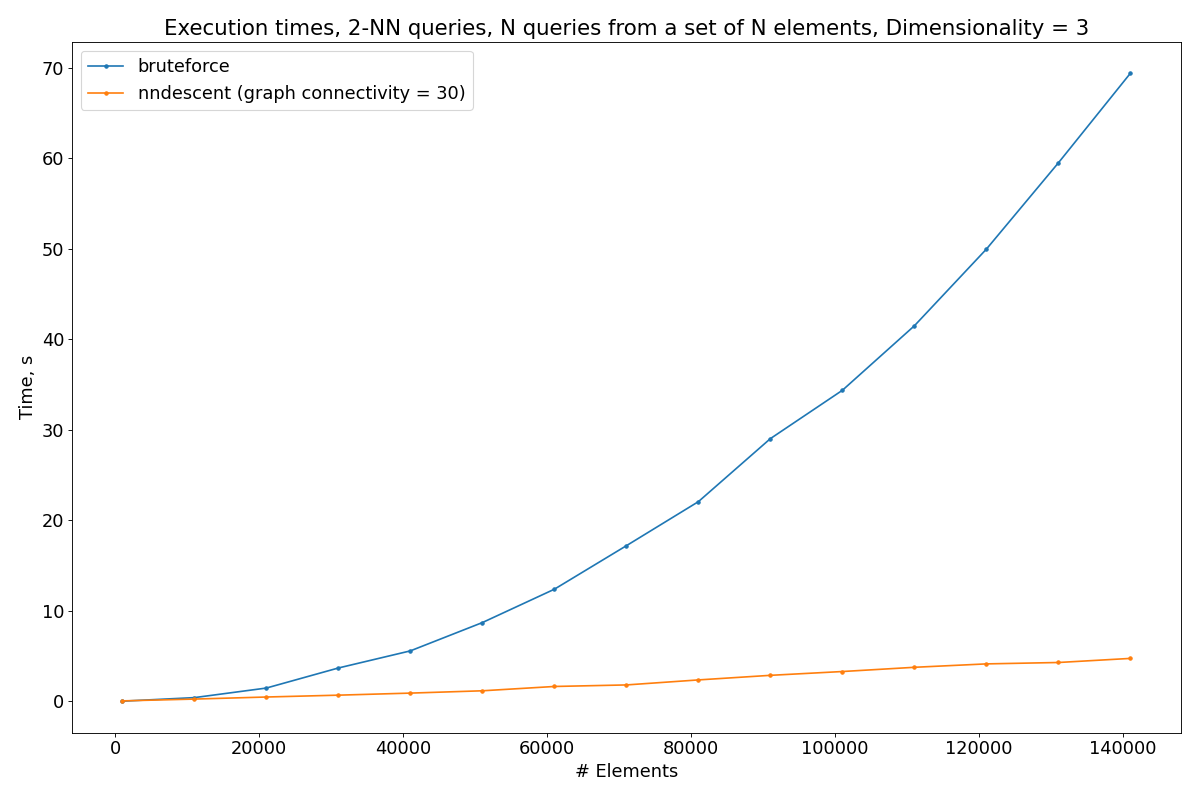
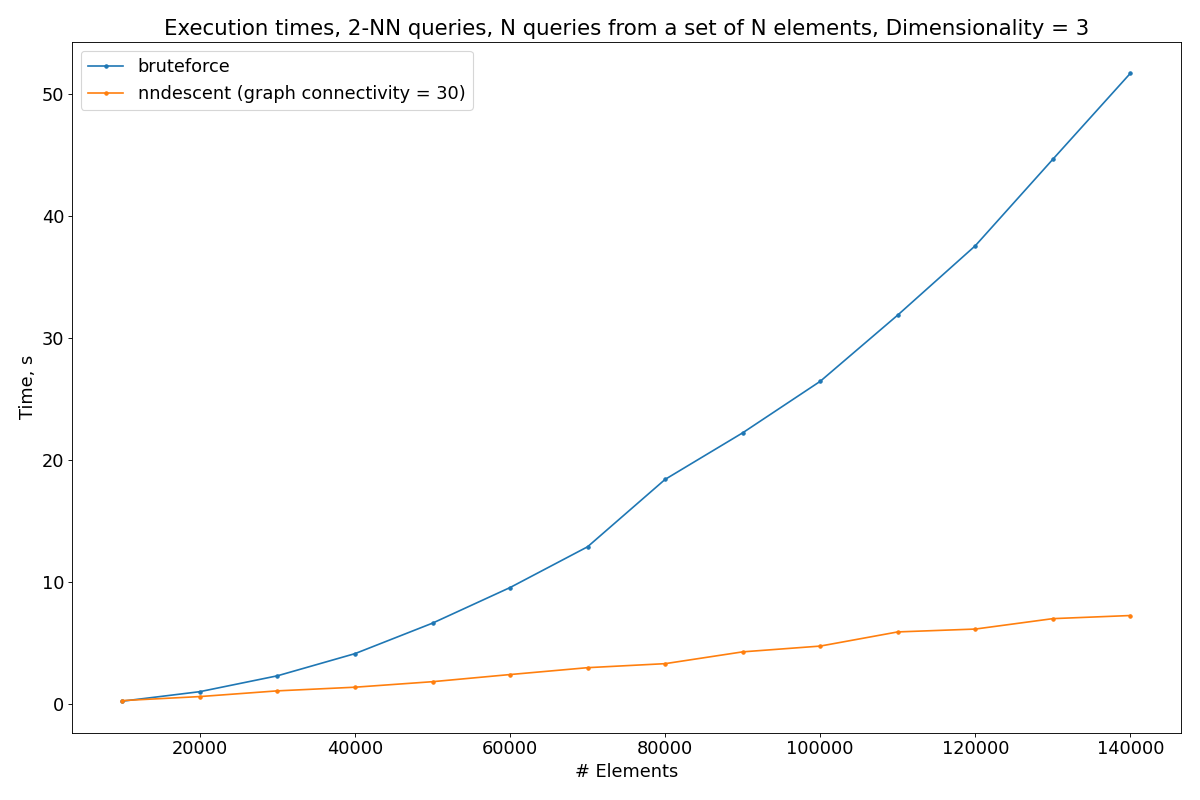
deploy: 7130a99ad22c4904c2712be1da9e372a1e9c1220

diff --git a/api.html b/api.html
@@ -42,7 +42,7 @@
   <h1 class="doc-title">nndescent approximate k-NN search algorithm</h1>
   <article id="article" data-section="api">
     <aside>
-      <ol class="toc"><li><a href="index.html" data-node="index">Overview</a></li><li><a href="how-to-use.html" data-node="how-to-use">How to use</a></li><li><a href="api.html" data-node="api">API</a><ol><li><a href="api.html#common-metrics" data-node="common-metrics">Common metrics</a></li><li><a href="api.html#random-forest" data-node="random-forest">Random forest</a></li><li><a href="api.html#nndescent" data-node="nndescent">nndescent</a></li><li><a href="api.html#brute-force-algorithm" data-node="brute-force-algorithm">Brute-force algorithm</a></li></ol></li></ol>
+      <ol class="toc"><li><a href="index.html" data-node="index">Overview</a></li><li><a href="how-to-use.html" data-node="how-to-use">How to use</a></li><li><a href="specialization.html" data-node="specialization">Specialization</a></li><li><a href="api.html" data-node="api">API</a><ol><li><a href="api.html#common-metrics" data-node="common-metrics">Common metrics</a></li><li><a href="api.html#random-forest" data-node="random-forest">Random forest</a></li><li><a href="api.html#nndescent" data-node="nndescent">nndescent</a></li><li><a href="api.html#brute-force-algorithm" data-node="brute-force-algorithm">Brute-force algorithm</a></li></ol></li></ol>
     </aside>
     <main class="codex-section">
       <header>
@@ -51,10 +51,11 @@
       <div class="content">
         
    <h1 id="common-metrics">Common metrics</h1>
-       Package <code>nndescent/point</code>
+       Package <code>nndescent/metrics</code>. These metrics are specialized for
+       <code>(simple-array single-float (*))</code> vectors.
        
        <div class="codex-doc-node codex-type"><code class="codex-name">dist</code><code class="codex-type-def">(nil (quote (function (t t) (values (real 0) &amp;optional))))</code><div class="codex-docstring">Similarity metric type</div></div>
-       <div class="codex-doc-node codex-operator codex-function"><code class="codex-name">euclidean-dist</code><code class="codex-lambda-list">(x y)</code><div class="codex-docstring"><p>Calculate Euclidean distance for two vectors of single floats.</p><p>\(\rho(x, y) = \sqrt{\sum_k (x_k - y_k)^2}\)</p></div></div>
+       <div class="codex-doc-node codex-operator codex-function"><code class="codex-name">euclidean-dist</code><code class="codex-lambda-list">(x y)</code><div class="codex-docstring"><p>Calculate Euclidean distance for two vectors of single floats.</p><p>\(ρ(x, y) = \sqrt{\sum_k (x_k - y_k)^2}\)</p></div></div>
        <div class="codex-doc-node codex-operator codex-function"><code class="codex-name">manhattan-dist</code><code class="codex-lambda-list">(x y)</code><div class="codex-docstring"><p>Calculate Manhattan distance for two vectors of single floats.</p><p>\(\rho(x, y) = \sum_k \lvert x_k - y_k \rvert \)</p></div></div>
        <div class="codex-doc-node codex-operator codex-function"><code class="codex-name">chebyshev-dist</code><code class="codex-lambda-list">(x y)</code><div class="codex-docstring"><p>Calculate Chebyshev distance for two vectors of single floats.</p><p>\(\rho(x, y) = \max_k \lvert x_k - y_k \rvert \)</p></div></div>
      
@@ -77,7 +78,8 @@ result <code>approx</code> is required for this algorithm. Parameters
 <code>max-iterations</code> and <code>min-updates</code> control the termination
 condition of the algorithm, namely the algorithm terminates if the
 number of updates of the graph is less than or equal to
-<code>min-updates</code>.</div></div>
+<code>min-updates</code>. Also return the number of iterations and the number
+of graph updates at the last iterations.</div></div>
        <div class="codex-doc-node codex-operator codex-function"><code class="codex-name">nndescent!</code><code class="codex-lambda-list">(dist ps approx k &amp;key (max-iterations 5) (min-updates 0))</code><div class="codex-docstring">Inplace version of <code>nndescent</code>.</div></div>
        <div class="codex-doc-node codex-operator codex-function"><code class="codex-name">knn</code><code class="codex-lambda-list">(dist ps queries graph k)</code><div class="codex-docstring">For each point \(q\) in the set <code>queries</code> find <code>k</code> points
 from the set <code>ps</code> closest to \(q\) using an approximate algorithm

diff --git a/how-to-use.html b/how-to-use.html
@@ -42,7 +42,7 @@
   <h1 class="doc-title">nndescent approximate k-NN search algorithm</h1>
   <article id="article" data-section="how-to-use">
     <aside>
-      <ol class="toc"><li><a href="index.html" data-node="index">Overview</a></li><li><a href="how-to-use.html" data-node="how-to-use">How to use</a></li><li><a href="api.html" data-node="api">API</a><ol><li><a href="common-metrics.html" data-node="common-metrics">Common metrics</a></li><li><a href="random-forest.html" data-node="random-forest">Random forest</a></li><li><a href="nndescent.html" data-node="nndescent">nndescent</a></li><li><a href="brute-force-algorithm.html" data-node="brute-force-algorithm">Brute-force algorithm</a></li></ol></li></ol>
+      <ol class="toc"><li><a href="index.html" data-node="index">Overview</a></li><li><a href="how-to-use.html" data-node="how-to-use">How to use</a></li><li><a href="specialization.html" data-node="specialization">Specialization</a></li><li><a href="api.html" data-node="api">API</a><ol><li><a href="common-metrics.html" data-node="common-metrics">Common metrics</a></li><li><a href="random-forest.html" data-node="random-forest">Random forest</a></li><li><a href="nndescent.html" data-node="nndescent">nndescent</a></li><li><a href="brute-force-algorithm.html" data-node="brute-force-algorithm">Brute-force algorithm</a></li></ol></li></ol>
     </aside>
     <main class="codex-section">
       <header>
@@ -68,9 +68,9 @@
    can do it the slow way, using a brute-force algorithm:
    </p><pre><code class="lisp">(time
  (defparameter *slow*
-   (nndescent/naive:knn #'nndescent/point:euclidean-dist *ps* *qs* 2)))
+   (nndescent/naive:knn #'nndescent/metrics:euclidean-dist *ps* *qs* 2)))
    </code></pre><p>
-   This takes approximately 68 seconds of execution time with 6 workers
+   This takes approximately 48 seconds of execution time with 6 workers
    (nndescent is parallelized with lparallel, so don't forget to create a new
    kernel before running nndescent: <code>(setq lparallel:*kernel*
    (lparallel:make-kernel 6))</code>).</p><p>   Now we do the same with nndescent. Firstly we make a connectivity graph for
@@ -79,20 +79,20 @@
    </p><pre><code class="lisp">(time
  (defparameter *graph*
    (nndescent/nndescent:nndescent
-    #'nndescent/point:euclidean-dist *ps*
+    #'nndescent/metrics:euclidean-dist *ps*
     (nndescent/random-forest:initial-approximation
-     #'nndescent/point:euclidean-dist *ps* 30)
+     #'nndescent/metrics:euclidean-dist *ps* 30)
     30 :max-iterations 20)))
    </code></pre><p>
-   This takes 6.5 seconds of execution time. At first we do an initial
+   This takes 6 seconds of execution time. At first we do an initial
    approximation of the connectivity graph with <code>initial-approximation</code> and
    then iteratively improve it with <code>nndescent</code>.</p><p>   Now we can perform the search using the connectivity graph:
    </p><pre><code class="lisp">(time
  (defparameter *fast*
-   (nndescent/nndescent:knn #'nndescent/point:euclidean-dist *ps* *qs* *graph* 2)))
+   (nndescent/nndescent:knn #'nndescent/metrics:euclidean-dist *ps* *qs* *graph* 2)))
    </code></pre><p>
-   This takes 0.9 seconds. So we have approximately 68/(0.9+6.5)=<b>9x</b> speed-up
-   compared to the brute-force algorithm.</p><p>   Now you have learned how to use nndescent and may wonder what requirements it
+   This takes 0.6 seconds. So we have approximately 48/(0.6+6)=<b>7x</b>
+   speed-up compared to the brute-force algorithm.</p><p>   Now you have learned how to use nndescent and may wonder what requirements it
    imposes on the space your points are in. As I said, unfortunately it does not
    work good with big dimensionalities (at least yet), but virtually there is no
    more restrictions. For example, your metric can violate metric axioms, for

diff --git a/specialization.html b/specialization.html
@@ -5,7 +5,7 @@
     <meta http-equiv="X-UA-Compatible" content="IE=edge">
     <meta name="viewport" content="width=device-width, initial-scale=1">
     <title>
-  Overview &ndash; nndescent approximate k-NN search algorithm
+  Specialization &ndash; nndescent approximate k-NN search algorithm
 </title>
     <link rel="stylesheet" href="static/style.css"/>
     
@@ -15,7 +15,7 @@
   <style>
    /* Highlight the current top-level TOC item, and hide the TOC of all other items */
 
-   .toc a[data-node="index"] {
+   .toc a[data-node="specialization"] {
        /*color: #AD3108;*/
    }
 
@@ -23,15 +23,15 @@
        display: none;
    }
 
-   .toc li a[data-node="index"] {
+   .toc li a[data-node="specialization"] {
        font-weight: bold;
    }
 
-   .toc li a[data-node="index"] + ol {
+   .toc li a[data-node="specialization"] + ol {
        display: block;
    }
 
-   .toc li a[data-node="index"] + ol li {
+   .toc li a[data-node="specialization"] + ol li {
        margin-left: 10px;
    }
   </style>
@@ -40,33 +40,23 @@
   <body>
     
   <h1 class="doc-title">nndescent approximate k-NN search algorithm</h1>
-  <article id="article" data-section="index">
+  <article id="article" data-section="specialization">
     <aside>
       <ol class="toc"><li><a href="index.html" data-node="index">Overview</a></li><li><a href="how-to-use.html" data-node="how-to-use">How to use</a></li><li><a href="specialization.html" data-node="specialization">Specialization</a></li><li><a href="api.html" data-node="api">API</a><ol><li><a href="common-metrics.html" data-node="common-metrics">Common metrics</a></li><li><a href="random-forest.html" data-node="random-forest">Random forest</a></li><li><a href="nndescent.html" data-node="nndescent">nndescent</a></li><li><a href="brute-force-algorithm.html" data-node="brute-force-algorithm">Brute-force algorithm</a></li></ol></li></ol>
     </aside>
     <main class="codex-section">
       <header>
-        <h2 class="section-title">Overview</h2>
+        <h2 class="section-title">Specialization</h2>
       </header>
       <div class="content">
-        <p>
-   <code>nndescent</code> is an algorithm for approximate k-NN searches. Although I
-   wanted to make a replacement for pynndescent <strike>and failed</strike>(UPD: nope,
-   this implementation has accuracy comparable to nndescent's), this
-   implementation is still good for low dimensionality. Look at this plot:
-   <img src="correctness.png"/>
-   As you can see, the accuracy is more than 90% for dimensionality up to 6, and
-   is about 99,8% for dimensionality equal to 3 (pynndescent works good for much
-   bigger dimensionality).</p><p>   The algorithm gives a significant speed-up compared to a brute-force
-   solution:
-   <img src="exectime.png"/>
-   As you can see, the brute-force algorithm has the complexity \(O(n^2)\) and
-   nndescent is roughly \(O(n)\).</p><p>   Paper:
-   </p><pre><code class=NIL>Dong W., Moses C., Li K. Efficient k-nearest neighbor graph construction for
-generic similarity measures //Proceedings of the 20th international conference
-on World wide web. – 2011. – С. 577-586.
-   </code></pre><p>
-</p>
+        
+   Metric functions provided with nndescent are specialized for simple vectors
+   of single floats, but nndescent can work with any metric which accepts any
+   two values and returns a non-negative real number. When you push
+   <code>:nndescent-single</code> to <code>*features*</code> before compiling nndescent, nndescent
+   expects the metric to return a non-negative single-float value. This
+   specialized build of nndescent is much faster than a default build.
+
       </div>
     </main>
   </article>
